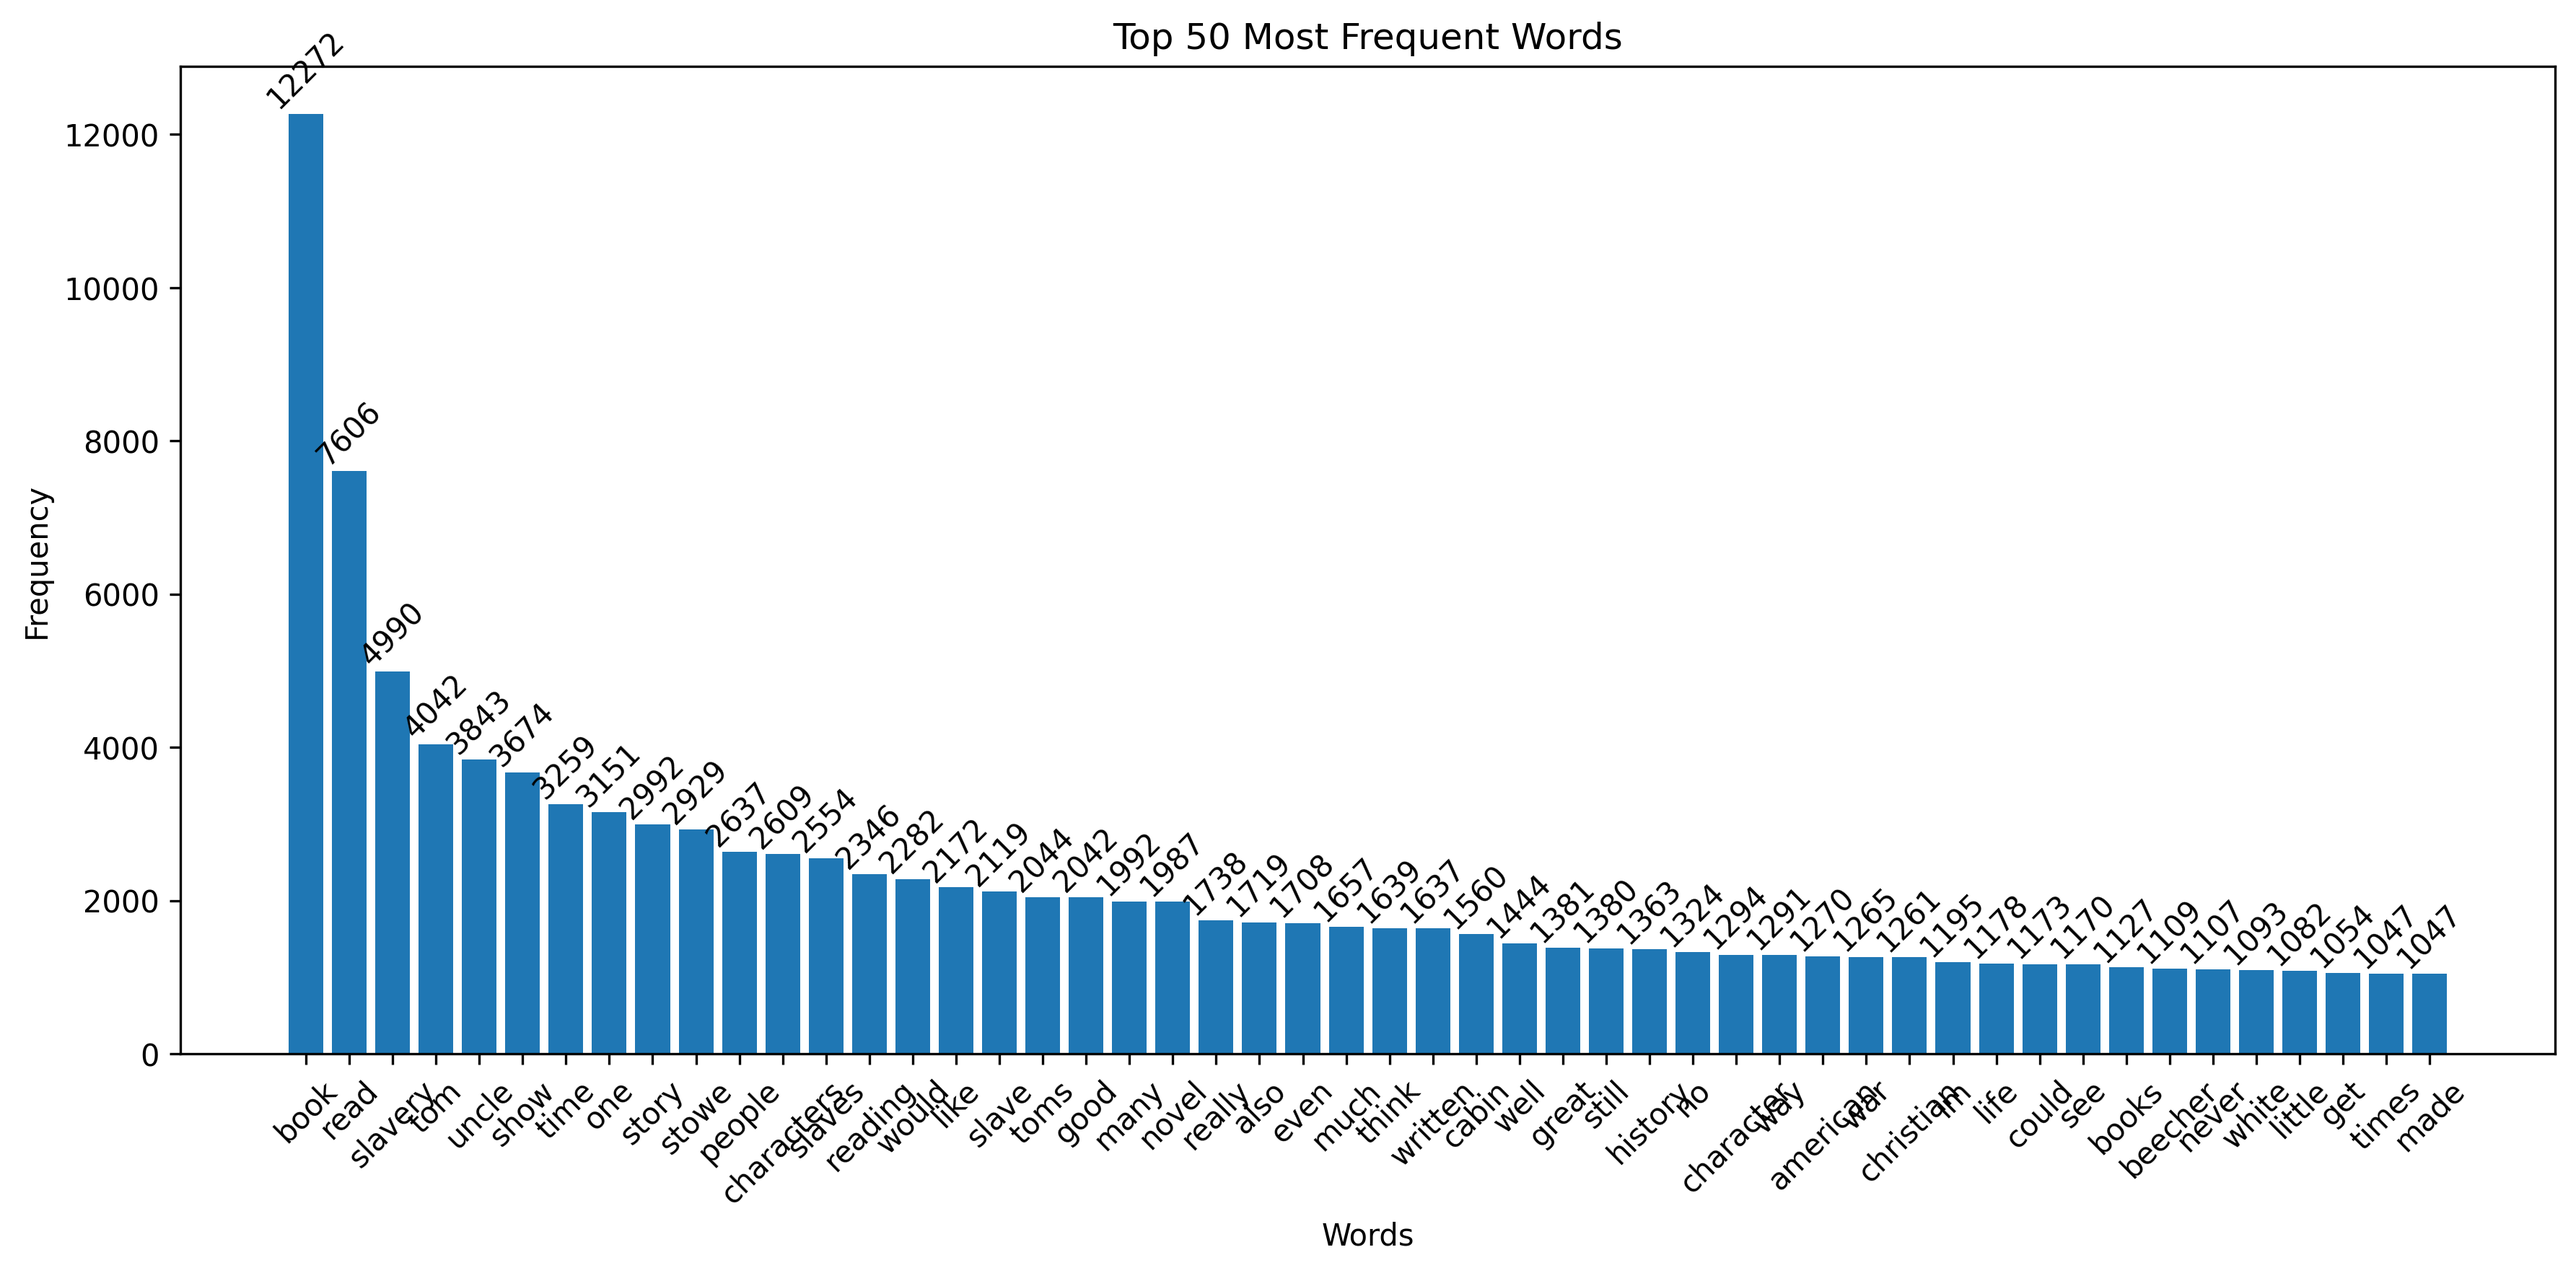
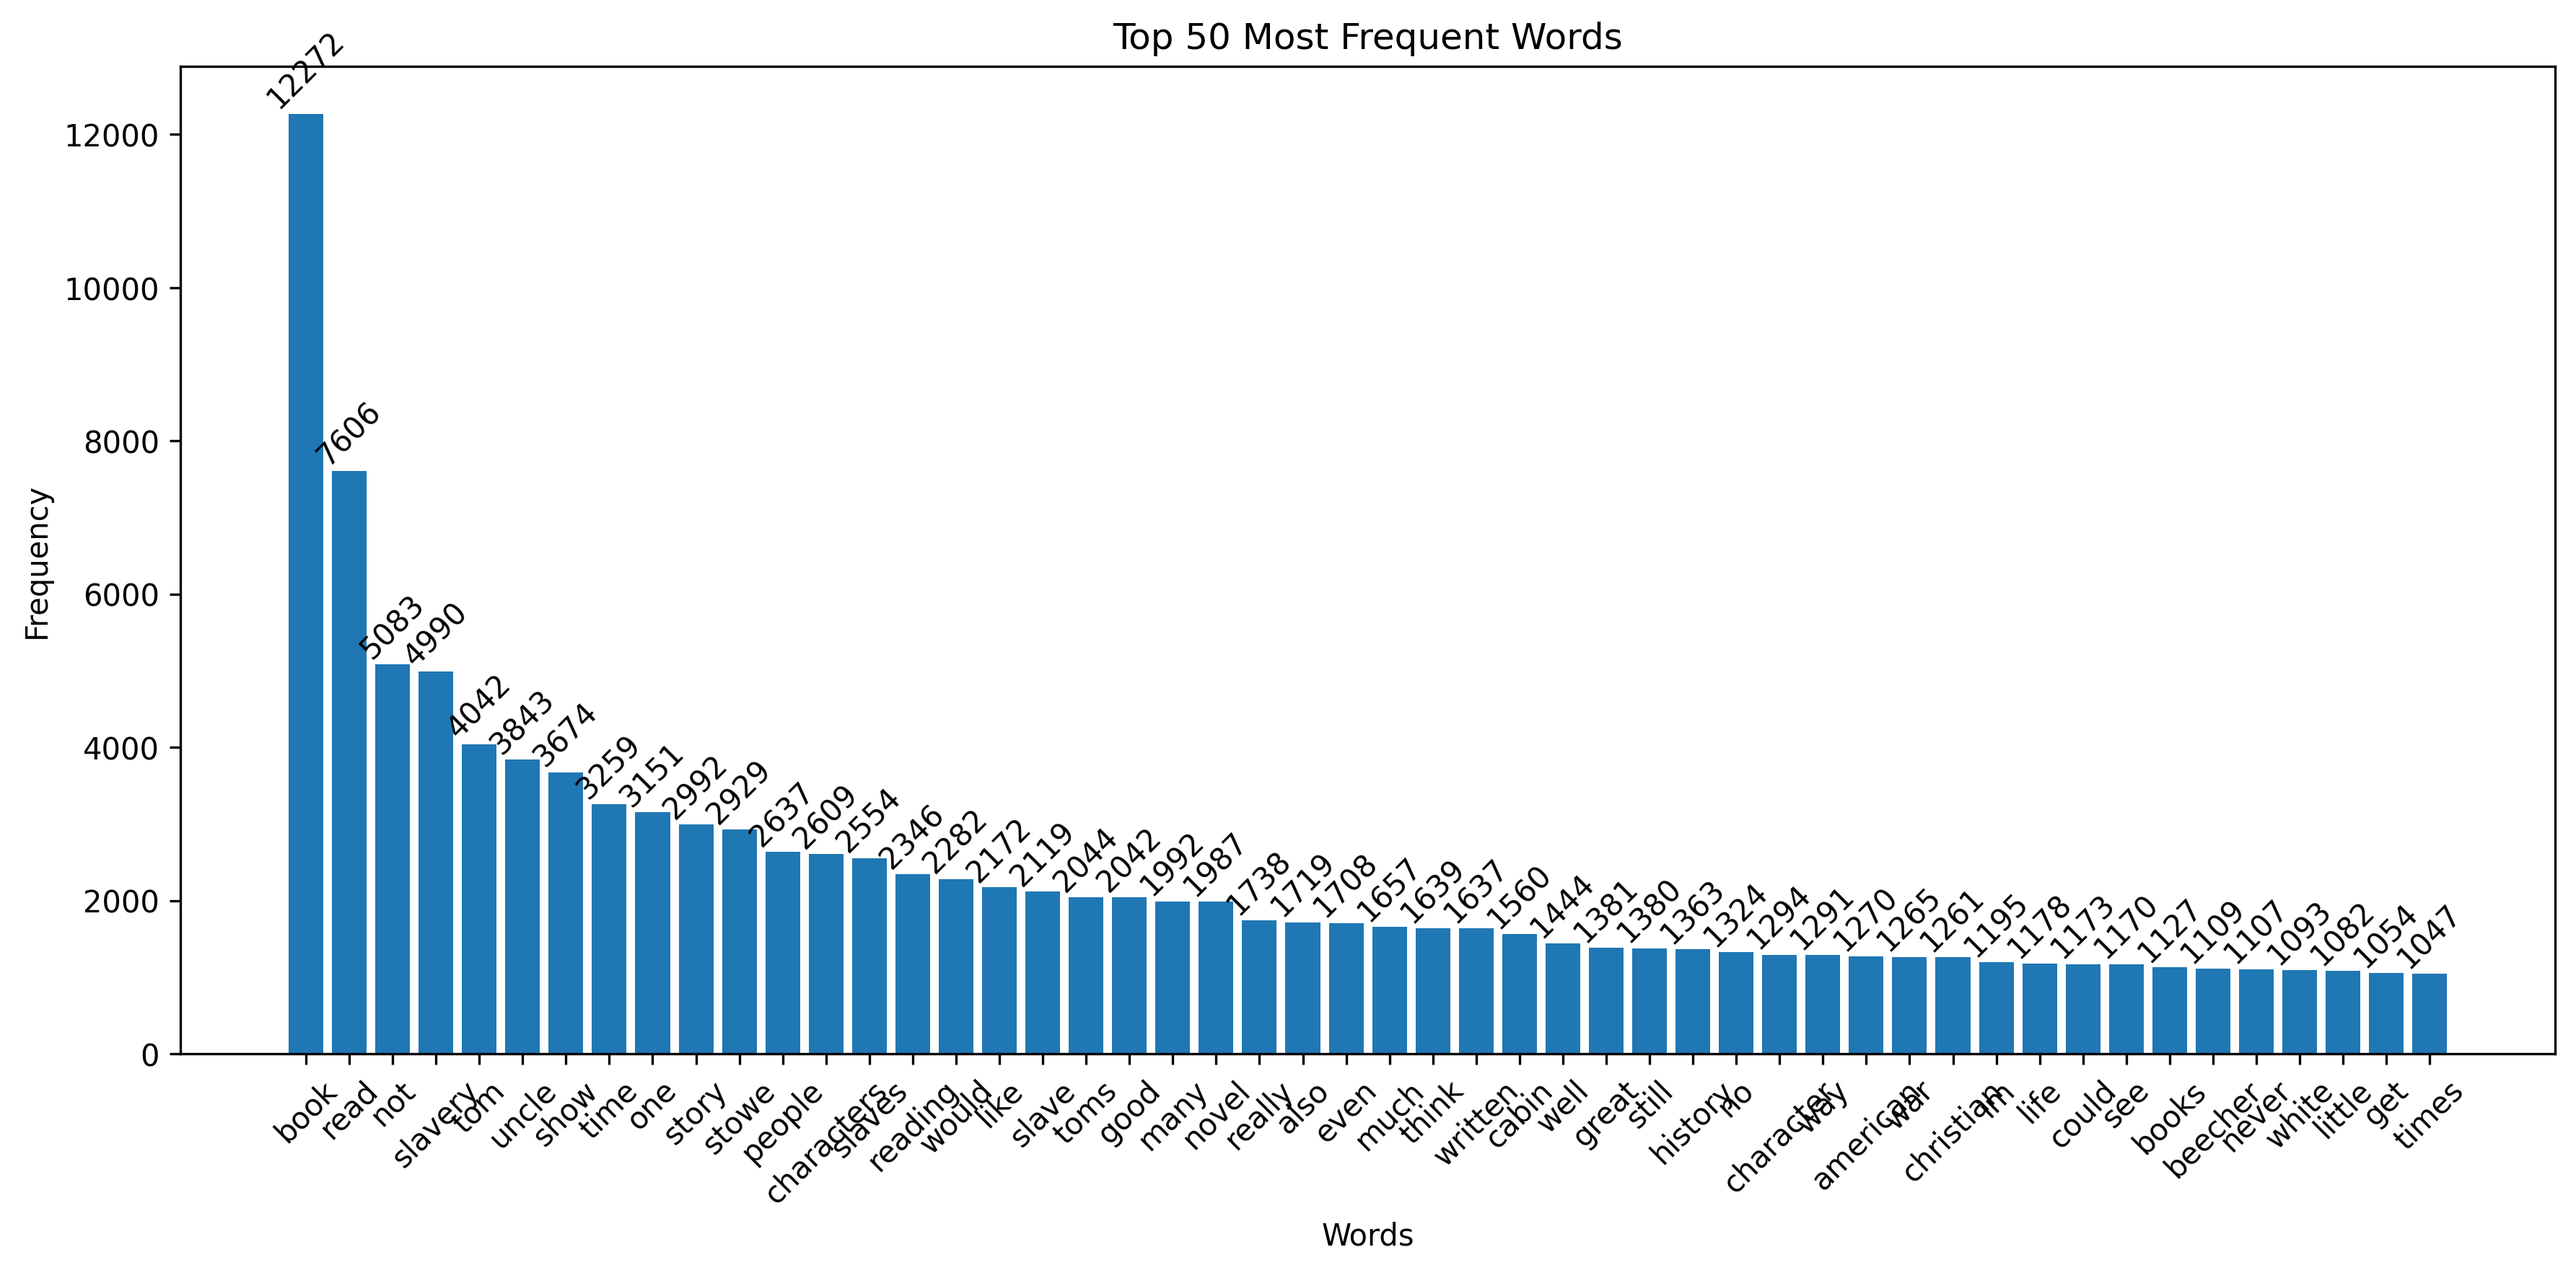
changed stopwords

Changed region(s): [[0.1244, 0.8414, 0.9639, 0.9348], [0.1244, 0.4674, 0.7773, 0.7479], [0.8084, 0.6856, 0.9328, 0.7479]]

diff --git a/Data_Preprocessing/preprocessor_tokenize.py b/Data_Preprocessing/preprocessor_tokenize.py
@@ -27,7 +27,7 @@ def preprocessor_tokenize():
     # remove stopwords from review text using NLTK
     print("[Pre-Processor]: Remove stopwords from review text.")
     stop_words = set(stopwords.words('english'))
-    words_to_keep = {'no'}
+    words_to_keep = {'no','not','never'}
     custom_stopwords = set(stop_words - words_to_keep)
 
     reviews['tokenized_comment'] = reviews['tokenized_comment'].apply(lambda words: [word for word in words if word not in custom_stopwords])
